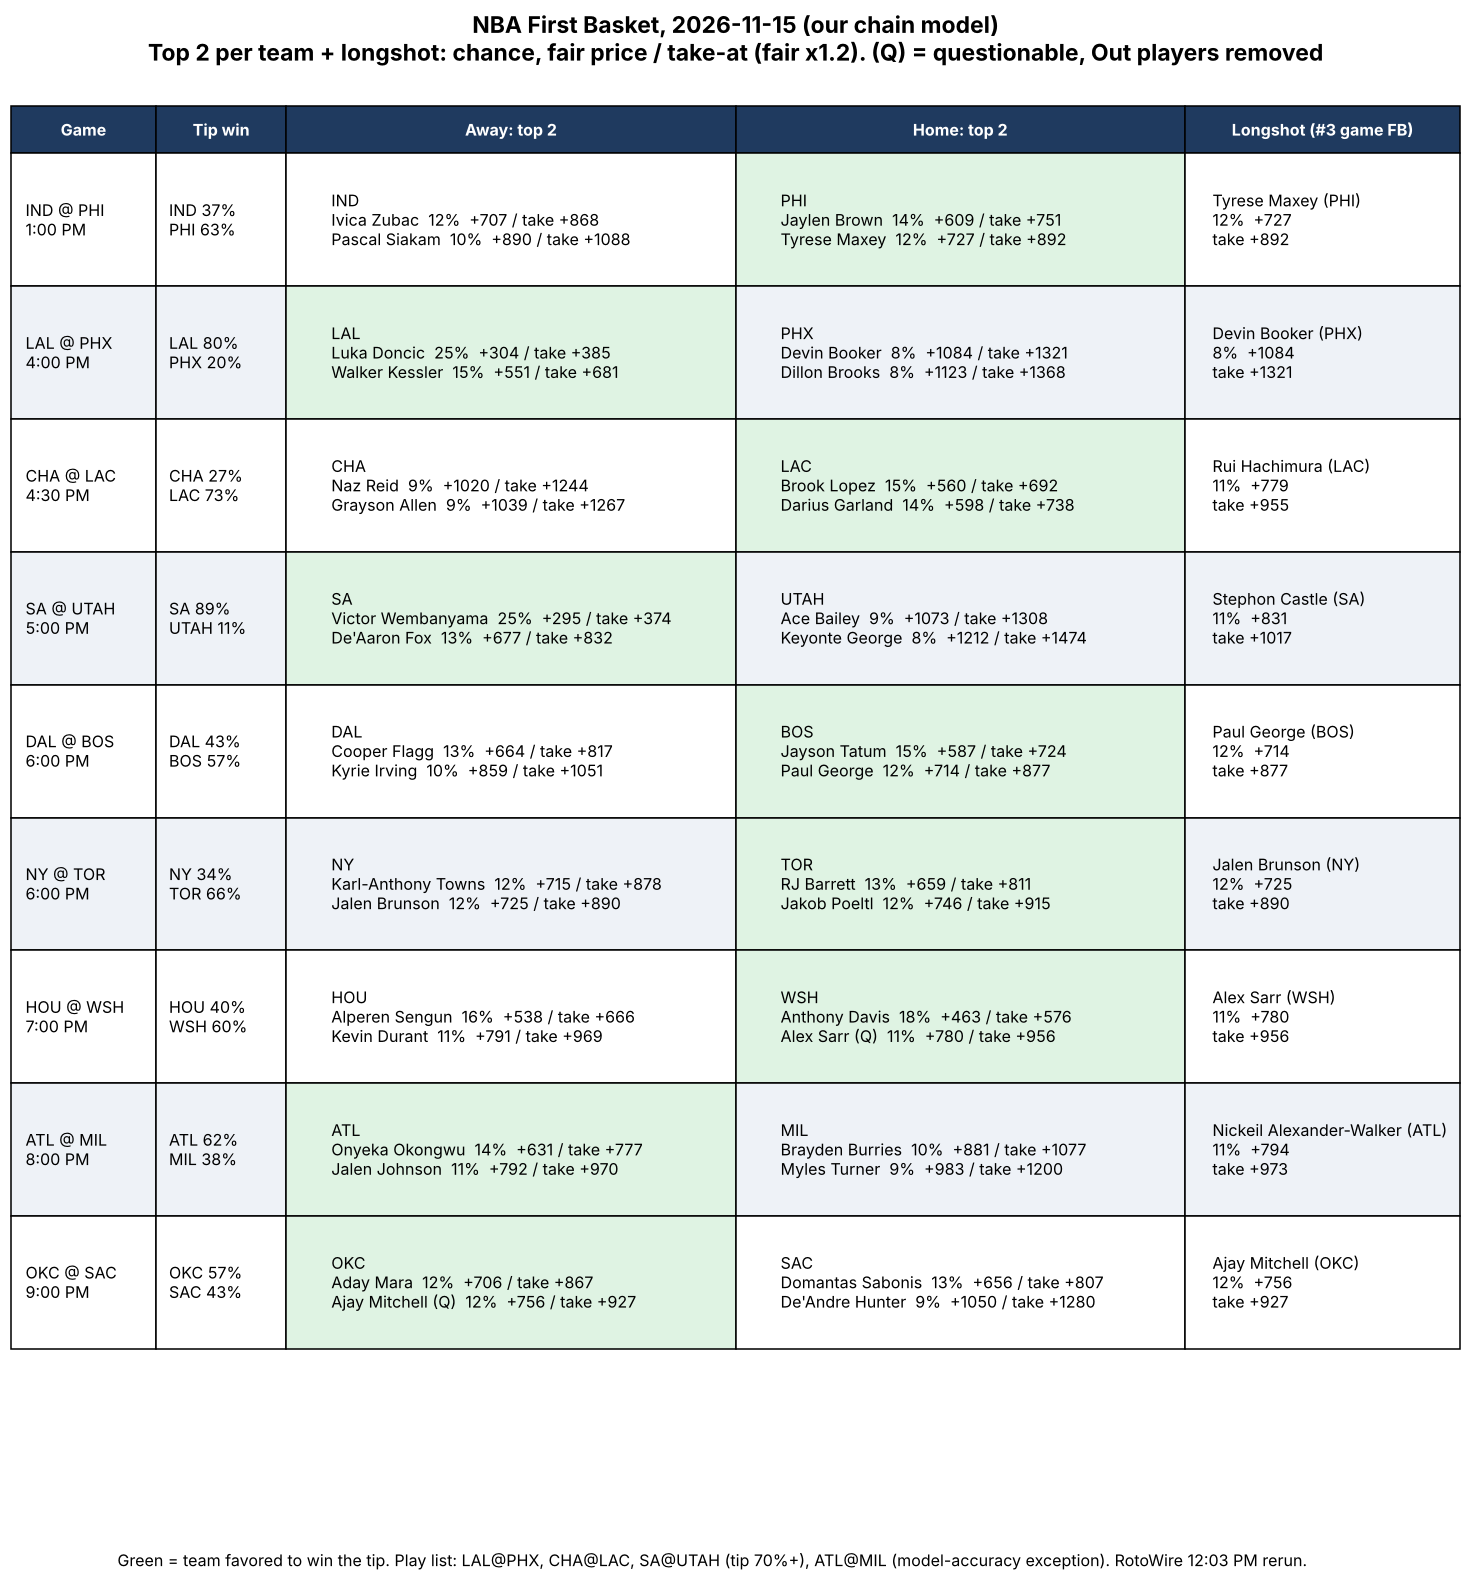
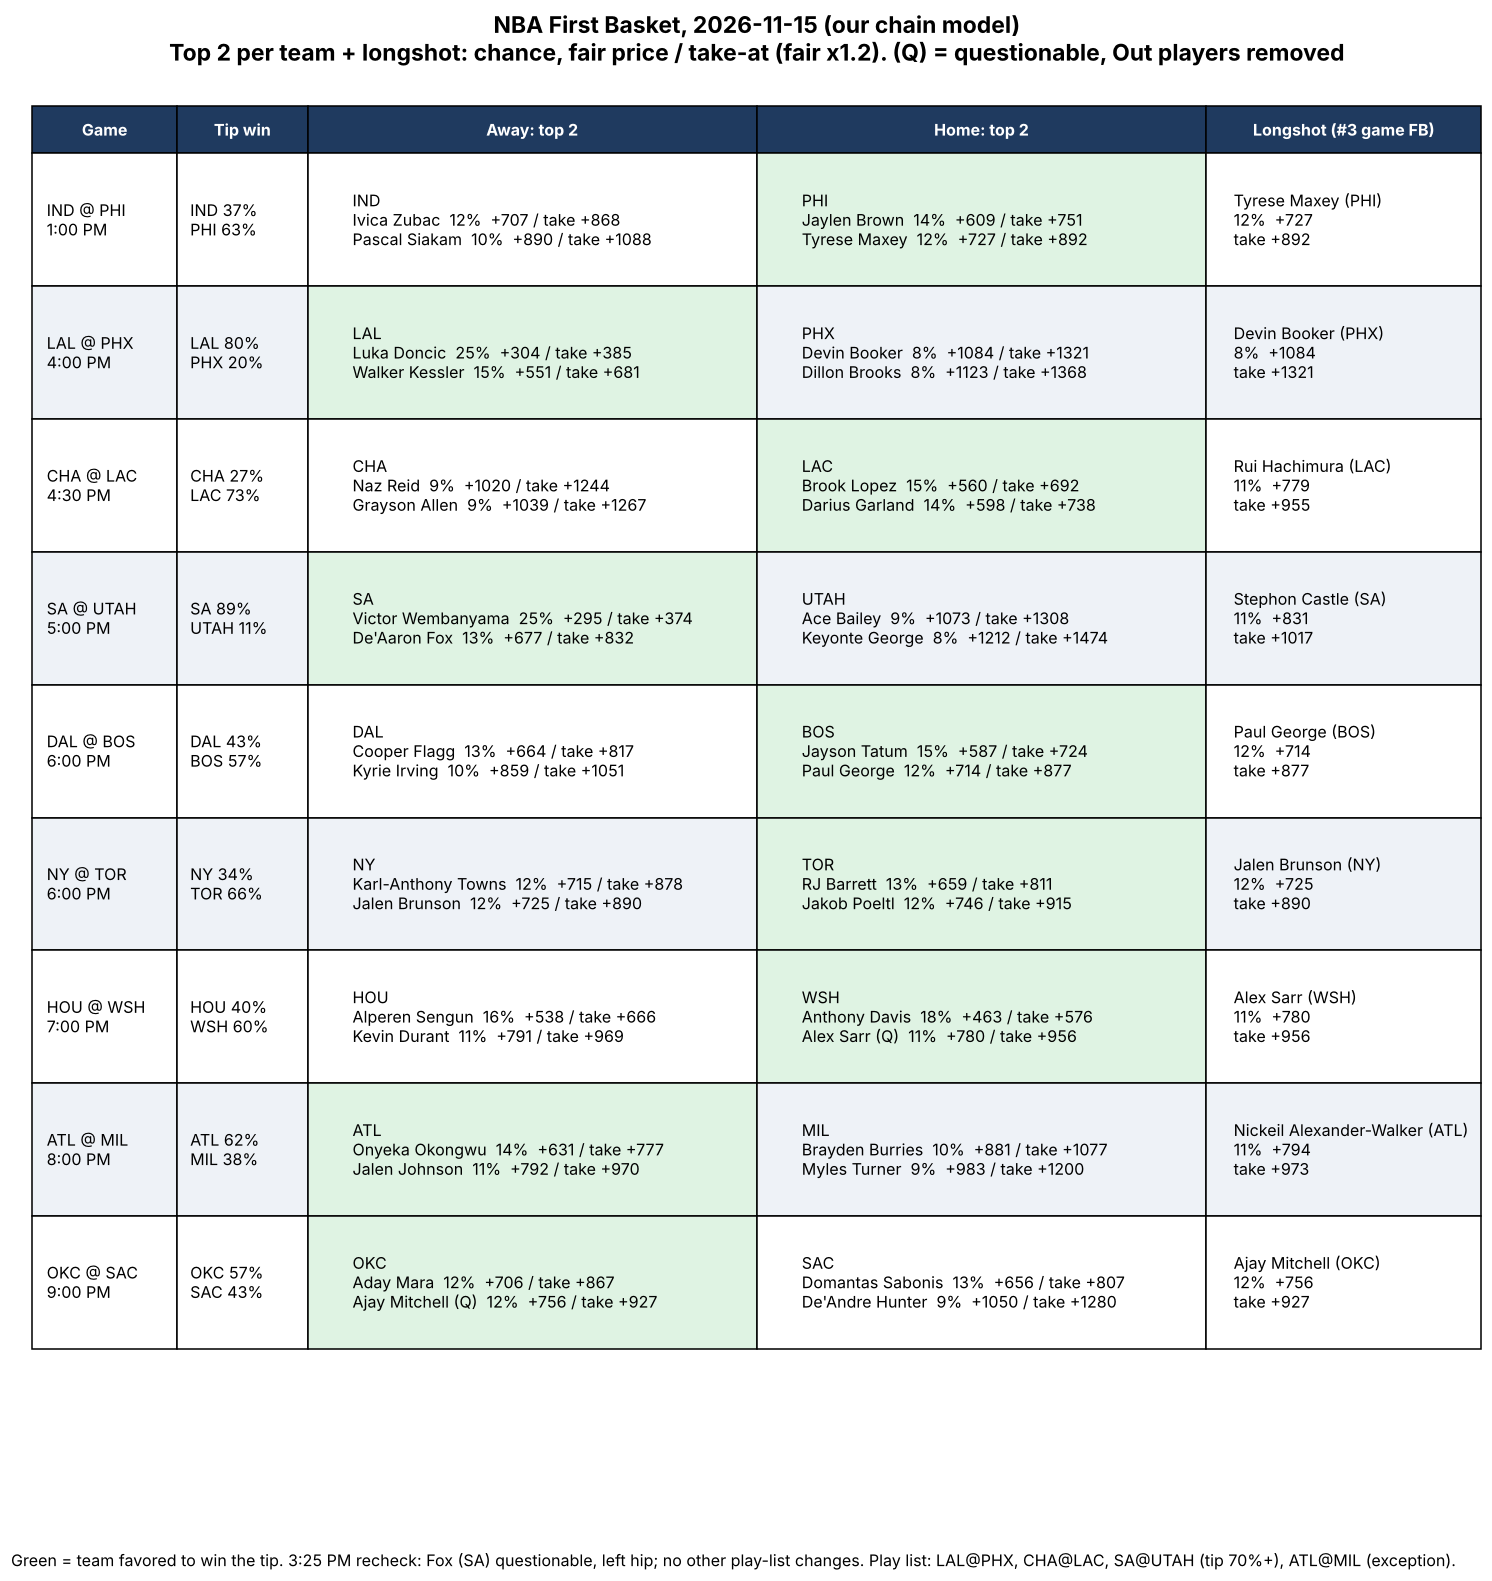
NBA 11/15 3:25 PM recheck: Fox questionable, Fox rows flagged void if sits; chart re-rendered
Claude-Session: https://claude.ai/code/session_01TQWUAJSyeczoh1eaRjRwmB

diff --git a/analysis/nba/out/play_list_2026-11-15.md b/analysis/nba/out/play_list_2026-11-15.md
@@ -1,4 +1,5 @@
 # NBA first basket bets, Sun 11/15
+3:25 PM recheck (NBA report 3 PM, ESPN, RotoWire): Fox questionable (left hip), still in RotoWire's five. Fox legs void if he sits; place them close to tip or skip. No other play-list changes.
 
 Total $28.80: 12 straights $12.00, 24 2-leg $12.00, 32 3-leg $3.20, 16 4-leg $1.60.
 Games in: LAL@PHX (tip LAL 80%); CHA@LAC (tip LAC 73%); SA@UTAH (tip SA 89%); ATL@MIL (tip ATL 62%, model hit ATL 3/5, MIL 4/5, EXCEPTION).
@@ -20,7 +21,7 @@ First basket is mostly noise; these are small stakes. In game order, check off a
 
 **SA@UTAH 5:00** (tip SA 89%)
 - [ ] #1 Wembanyama, fair +295
-- [ ] #2 Fox, fair +677
+- [ ] #2 Fox (Q, void if sits), fair +677
 - [ ] #3 Castle, fair +831
 
 **ATL@MIL 8:00** (tip ATL 62%, model hit ATL 3/5, MIL 4/5; EXCEPTION game)
@@ -37,9 +38,9 @@ First basket is mostly noise; these are small stakes. In game order, check off a
 4. [ ] Kessler + Garland (fair +4,443)
 *LAL@PHX 4:00 + SA@UTAH 5:00*
 5. [ ] Doncic + Wembanyama (fair +1,495)
-6. [ ] Doncic + Fox (fair +3,038)
+6. [ ] Doncic + Fox (Q) (fair +3,038)
 7. [ ] Kessler + Wembanyama (fair +2,470)
-8. [ ] Kessler + Fox (fair +4,955)
+8. [ ] Kessler + Fox (Q) (fair +4,955)
 *LAL@PHX 4:00 + ATL@MIL 8:00*
 9. [ ] Doncic + Okongwu (fair +2,852)
 10. [ ] Doncic + J. Johnson (fair +3,503)
@@ -47,9 +48,9 @@ First basket is mostly noise; these are small stakes. In game order, check off a
 12. [ ] Kessler + J. Johnson (fair +5,704)
 *CHA@LAC 4:30 + SA@UTAH 5:00*
 13. [ ] Lopez + Wembanyama (fair +2,509)
-14. [ ] Lopez + Fox (fair +5,032)
+14. [ ] Lopez + Fox (Q) (fair +5,032)
 15. [ ] Garland + Wembanyama (fair +2,658)
-16. [ ] Garland + Fox (fair +5,326)
+16. [ ] Garland + Fox (Q) (fair +5,326)
 *CHA@LAC 4:30 + ATL@MIL 8:00*
 17. [ ] Lopez + Okongwu (fair +4,728)
 18. [ ] Lopez + J. Johnson (fair +5,792)
@@ -58,20 +59,20 @@ First basket is mostly noise; these are small stakes. In game order, check off a
 *SA@UTAH 5:00 + ATL@MIL 8:00*
 21. [ ] Wembanyama + Okongwu (fair +2,787)
 22. [ ] Wembanyama + J. Johnson (fair +3,423)
-23. [ ] Fox + Okongwu (fair +5,580)
-24. [ ] Fox + J. Johnson (fair +6,831)
+23. [ ] Fox (Q) + Okongwu (fair +5,580)
+24. [ ] Fox (Q) + J. Johnson (fair +6,831)
 
 ## 3-leg, $0.10 each (32 = $3.20)
 
 *LAL@PHX 4:00 + CHA@LAC 4:30 + SA@UTAH 5:00*
 1. [ ] Doncic + Lopez + Wembanyama (fair +10,436)
-2. [ ] Doncic + Lopez + Fox (fair +20,627)
+2. [ ] Doncic + Lopez + Fox (Q) (fair +20,627)
 3. [ ] Doncic + Garland + Wembanyama (fair +11,039)
-4. [ ] Doncic + Garland + Fox (fair +21,814)
+4. [ ] Doncic + Garland + Fox (Q) (fair +21,814)
 5. [ ] Kessler + Lopez + Wembanyama (fair +16,872)
-6. [ ] Kessler + Lopez + Fox (fair +33,290)
+6. [ ] Kessler + Lopez + Fox (Q) (fair +33,290)
 7. [ ] Kessler + Garland + Wembanyama (fair +17,844)
-8. [ ] Kessler + Garland + Fox (fair +35,202)
+8. [ ] Kessler + Garland + Fox (Q) (fair +35,202)
 *LAL@PHX 4:00 + CHA@LAC 4:30 + ATL@MIL 8:00*
 9. [ ] Doncic + Lopez + Okongwu (fair +19,400)
 10. [ ] Doncic + Lopez + J. Johnson (fair +23,697)
@@ -84,38 +85,38 @@ First basket is mostly noise; these are small stakes. In game order, check off a
 *LAL@PHX 4:00 + SA@UTAH 5:00 + ATL@MIL 8:00*
 17. [ ] Doncic + Wembanyama + Okongwu (fair +11,560)
 18. [ ] Doncic + Wembanyama + J. Johnson (fair +14,129)
-19. [ ] Doncic + Fox + Okongwu (fair +22,840)
-20. [ ] Doncic + Fox + J. Johnson (fair +27,894)
+19. [ ] Doncic + Fox (Q) + Okongwu (fair +22,840)
+20. [ ] Doncic + Fox (Q) + J. Johnson (fair +27,894)
 21. [ ] Kessler + Wembanyama + Okongwu (fair +18,683)
 22. [ ] Kessler + Wembanyama + J. Johnson (fair +22,822)
-23. [ ] Kessler + Fox + Okongwu (fair +36,854)
-24. [ ] Kessler + Fox + J. Johnson (fair +44,996)
+23. [ ] Kessler + Fox (Q) + Okongwu (fair +36,854)
+24. [ ] Kessler + Fox (Q) + J. Johnson (fair +44,996)
 *CHA@LAC 4:30 + SA@UTAH 5:00 + ATL@MIL 8:00*
 25. [ ] Lopez + Wembanyama + Okongwu (fair +18,969)
 26. [ ] Lopez + Wembanyama + J. Johnson (fair +23,170)
-27. [ ] Lopez + Fox + Okongwu (fair +37,415)
-28. [ ] Lopez + Fox + J. Johnson (fair +45,681)
+27. [ ] Lopez + Fox (Q) + Okongwu (fair +37,415)
+28. [ ] Lopez + Fox (Q) + J. Johnson (fair +45,681)
 29. [ ] Garland + Wembanyama + Okongwu (fair +20,061)
 30. [ ] Garland + Wembanyama + J. Johnson (fair +24,503)
-31. [ ] Garland + Fox + Okongwu (fair +39,564)
-32. [ ] Garland + Fox + J. Johnson (fair +48,303)
+31. [ ] Garland + Fox (Q) + Okongwu (fair +39,564)
+32. [ ] Garland + Fox (Q) + J. Johnson (fair +48,303)
 
 ## 4-leg, $0.10 each (16 = $1.60)
 
 *LAL@PHX 4:00 + CHA@LAC 4:30 + SA@UTAH 5:00 + ATL@MIL 8:00*
 1. [ ] Doncic + Lopez + Wembanyama + Okongwu (fair +76,915)
 2. [ ] Doncic + Lopez + Wembanyama + J. Johnson (fair +93,884)
-3. [ ] Doncic + Lopez + Fox + Okongwu (fair +151,416)
-4. [ ] Doncic + Lopez + Fox + J. Johnson (fair +184,801)
+3. [ ] Doncic + Lopez + Fox (Q) + Okongwu (fair +151,416)
+4. [ ] Doncic + Lopez + Fox (Q) + J. Johnson (fair +184,801)
 5. [ ] Doncic + Garland + Wembanyama + Okongwu (fair +81,325)
 6. [ ] Doncic + Garland + Wembanyama + J. Johnson (fair +99,266)
-7. [ ] Doncic + Garland + Fox + Okongwu (fair +160,092)
-8. [ ] Doncic + Garland + Fox + J. Johnson (fair +195,389)
+7. [ ] Doncic + Garland + Fox (Q) + Okongwu (fair +160,092)
+8. [ ] Doncic + Garland + Fox (Q) + J. Johnson (fair +195,389)
 9. [ ] Kessler + Lopez + Wembanyama + Okongwu (fair +123,965)
 10. [ ] Kessler + Lopez + Wembanyama + J. Johnson (fair +151,302)
-11. [ ] Kessler + Lopez + Fox + Okongwu (fair +243,982)
-12. [ ] Kessler + Lopez + Fox + J. Johnson (fair +297,763)
+11. [ ] Kessler + Lopez + Fox (Q) + Okongwu (fair +243,982)
+12. [ ] Kessler + Lopez + Fox (Q) + J. Johnson (fair +297,763)
 13. [ ] Kessler + Garland + Wembanyama + Okongwu (fair +131,070)
 14. [ ] Kessler + Garland + Wembanyama + J. Johnson (fair +159,971)
-15. [ ] Kessler + Garland + Fox + Okongwu (fair +257,959)
-16. [ ] Kessler + Garland + Fox + J. Johnson (fair +314,819)
+15. [ ] Kessler + Garland + Fox (Q) + Okongwu (fair +257,959)
+16. [ ] Kessler + Garland + Fox (Q) + J. Johnson (fair +314,819)

diff --git a/analysis/nba/out/solid_parlays_2026-11-15.md b/analysis/nba/out/solid_parlays_2026-11-15.md
@@ -1,10 +1,11 @@
 # Solid 2-leg and 3-leg parlays, Sun 11/15
+3:25 PM recheck (NBA report 3 PM, ESPN, RotoWire): Fox questionable (left hip), still in RotoWire's five. Fox legs void if he sits; place them close to tip or skip. No other play-list changes.
 
 Solid = both our #1 and #2 are starting and not on any injury report (ESPN checked 12:30 PM, RotoWire 12:03 PM).
 All 4 play-list games qualify:
 - LAL@PHX 4:00: Doncic, Kessler
 - CHA@LAC 4:30: Lopez, Garland
-- SA@UTAH 5:00: Wembanyama, Fox
+- SA@UTAH 5:00: Wembanyama, Fox (now Q, 3 PM report: not solid until he is confirmed; Fox legs void if he sits)
 - ATL@MIL 8:00: Okongwu, J. Johnson
 
 ## 2-leg, $0.50 each (24 = $12.00)
@@ -16,9 +17,9 @@ All 4 play-list games qualify:
 4. [ ] Kessler + Garland (fair +4,443)
 *LAL@PHX 4:00 + SA@UTAH 5:00*
 5. [ ] Doncic + Wembanyama (fair +1,495)
-6. [ ] Doncic + Fox (fair +3,038)
+6. [ ] Doncic + Fox (Q) (fair +3,038)
 7. [ ] Kessler + Wembanyama (fair +2,470)
-8. [ ] Kessler + Fox (fair +4,955)
+8. [ ] Kessler + Fox (Q) (fair +4,955)
 *LAL@PHX 4:00 + ATL@MIL 8:00*
 9. [ ] Doncic + Okongwu (fair +2,852)
 10. [ ] Doncic + J. Johnson (fair +3,503)
@@ -26,9 +27,9 @@ All 4 play-list games qualify:
 12. [ ] Kessler + J. Johnson (fair +5,704)
 *CHA@LAC 4:30 + SA@UTAH 5:00*
 13. [ ] Lopez + Wembanyama (fair +2,509)
-14. [ ] Lopez + Fox (fair +5,032)
+14. [ ] Lopez + Fox (Q) (fair +5,032)
 15. [ ] Garland + Wembanyama (fair +2,658)
-16. [ ] Garland + Fox (fair +5,326)
+16. [ ] Garland + Fox (Q) (fair +5,326)
 *CHA@LAC 4:30 + ATL@MIL 8:00*
 17. [ ] Lopez + Okongwu (fair +4,728)
 18. [ ] Lopez + J. Johnson (fair +5,792)
@@ -37,20 +38,20 @@ All 4 play-list games qualify:
 *SA@UTAH 5:00 + ATL@MIL 8:00*
 21. [ ] Wembanyama + Okongwu (fair +2,787)
 22. [ ] Wembanyama + J. Johnson (fair +3,423)
-23. [ ] Fox + Okongwu (fair +5,580)
-24. [ ] Fox + J. Johnson (fair +6,831)
+23. [ ] Fox (Q) + Okongwu (fair +5,580)
+24. [ ] Fox (Q) + J. Johnson (fair +6,831)
 
 ## 3-leg, $0.10 each (32 = $3.20)
 
 *LAL@PHX 4:00 + CHA@LAC 4:30 + SA@UTAH 5:00*
 1. [ ] Doncic + Lopez + Wembanyama (fair +10,436)
-2. [ ] Doncic + Lopez + Fox (fair +20,627)
+2. [ ] Doncic + Lopez + Fox (Q) (fair +20,627)
 3. [ ] Doncic + Garland + Wembanyama (fair +11,039)
-4. [ ] Doncic + Garland + Fox (fair +21,814)
+4. [ ] Doncic + Garland + Fox (Q) (fair +21,814)
 5. [ ] Kessler + Lopez + Wembanyama (fair +16,872)
-6. [ ] Kessler + Lopez + Fox (fair +33,290)
+6. [ ] Kessler + Lopez + Fox (Q) (fair +33,290)
 7. [ ] Kessler + Garland + Wembanyama (fair +17,844)
-8. [ ] Kessler + Garland + Fox (fair +35,202)
+8. [ ] Kessler + Garland + Fox (Q) (fair +35,202)
 *LAL@PHX 4:00 + CHA@LAC 4:30 + ATL@MIL 8:00*
 9. [ ] Doncic + Lopez + Okongwu (fair +19,400)
 10. [ ] Doncic + Lopez + J. Johnson (fair +23,697)
@@ -63,19 +64,19 @@ All 4 play-list games qualify:
 *LAL@PHX 4:00 + SA@UTAH 5:00 + ATL@MIL 8:00*
 17. [ ] Doncic + Wembanyama + Okongwu (fair +11,560)
 18. [ ] Doncic + Wembanyama + J. Johnson (fair +14,129)
-19. [ ] Doncic + Fox + Okongwu (fair +22,840)
-20. [ ] Doncic + Fox + J. Johnson (fair +27,894)
+19. [ ] Doncic + Fox (Q) + Okongwu (fair +22,840)
+20. [ ] Doncic + Fox (Q) + J. Johnson (fair +27,894)
 21. [ ] Kessler + Wembanyama + Okongwu (fair +18,683)
 22. [ ] Kessler + Wembanyama + J. Johnson (fair +22,822)
-23. [ ] Kessler + Fox + Okongwu (fair +36,854)
-24. [ ] Kessler + Fox + J. Johnson (fair +44,996)
+23. [ ] Kessler + Fox (Q) + Okongwu (fair +36,854)
+24. [ ] Kessler + Fox (Q) + J. Johnson (fair +44,996)
 *CHA@LAC 4:30 + SA@UTAH 5:00 + ATL@MIL 8:00*
 25. [ ] Lopez + Wembanyama + Okongwu (fair +18,969)
 26. [ ] Lopez + Wembanyama + J. Johnson (fair +23,170)
-27. [ ] Lopez + Fox + Okongwu (fair +37,415)
-28. [ ] Lopez + Fox + J. Johnson (fair +45,681)
+27. [ ] Lopez + Fox (Q) + Okongwu (fair +37,415)
+28. [ ] Lopez + Fox (Q) + J. Johnson (fair +45,681)
 29. [ ] Garland + Wembanyama + Okongwu (fair +20,061)
 30. [ ] Garland + Wembanyama + J. Johnson (fair +24,503)
-31. [ ] Garland + Fox + Okongwu (fair +39,564)
-32. [ ] Garland + Fox + J. Johnson (fair +48,303)
+31. [ ] Garland + Fox (Q) + Okongwu (fair +39,564)
+32. [ ] Garland + Fox (Q) + J. Johnson (fair +48,303)
 

diff --git a/analysis/nba/README.md b/analysis/nba/README.md
@@ -531,6 +531,8 @@ Paired LL deltas on test (SE): kfg_w 1000 -.0000 (.0002), mk_w 10 -.0009 (.0021)
 
 - 11/15 12 PM: StarTool (9 cards), Tip-off Projections, @NBAFirstBasket tip and first basket cheat sheets logged (`out/startool/2026-11-15.md`, `out/cheatsheet/2026-11-15.md`, star_bomb.txt, tipproj/fbsheet logs, ST_TIP / ST_PCT_1115 / SH_TIP in the scorecard). RotoWire 12:03 PM rerun: Nembhard OUT (Quenton Jackson starts), PHI Jabari Walker for Wade (LeBron still jumps), UTAH Okogie and Mo Bamba (Bamba jumps, SA tip 89%), Gafford Q but back in DAL's five (DAL @ BOS flips to BOS 57%, game pick Tatum), BOS Scheierman for Walsh. Play-list picks unchanged; SA prices moved (Wembanyama +295, Fox +677, Castle +831); Bets E1214-E1242 and E1269-E1346 rewritten, play list and CSV regenerated. NBA tab NOT re-pushed after the rerun (still the 10:10 build). Source tip disagreements on play-list games: StarTool has CHA 54 (all others LAC 63-73) and MIL 53 (others ATL 58-65).
 
+- 11/15 3:25 PM recheck (NBA report 3 PM, ESPN, RotoWire) for the play-list games: no starter or jumper changes; Fox Q (left hip tightness) but in RotoWire's five, so Fox rows (Bets E1236, E1270, 26 parlays) marked void if he sits, `void_if_sits` set in the CSV, Fox legs tagged (Q) in the play list and solid parlays list. Landale (ATL) and Rollins (MIL) Q, bench. No model rerun.
+
 ## Tim vs model log (first basket)
 
 Tim's picks come from his own read of the StarTool card (not just its star), so the Tim column tests how he uses StarTool's data; the StarTool column is its star/bomb as printed.
